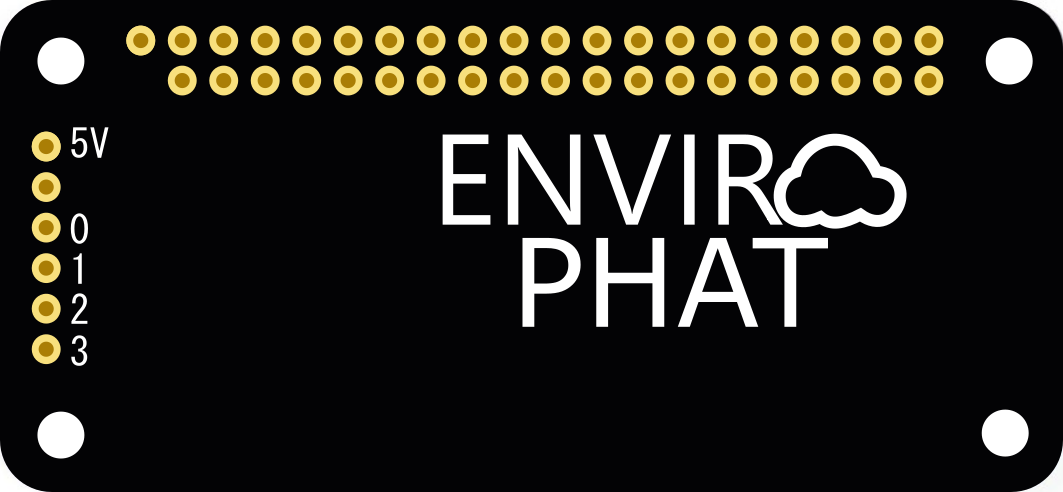
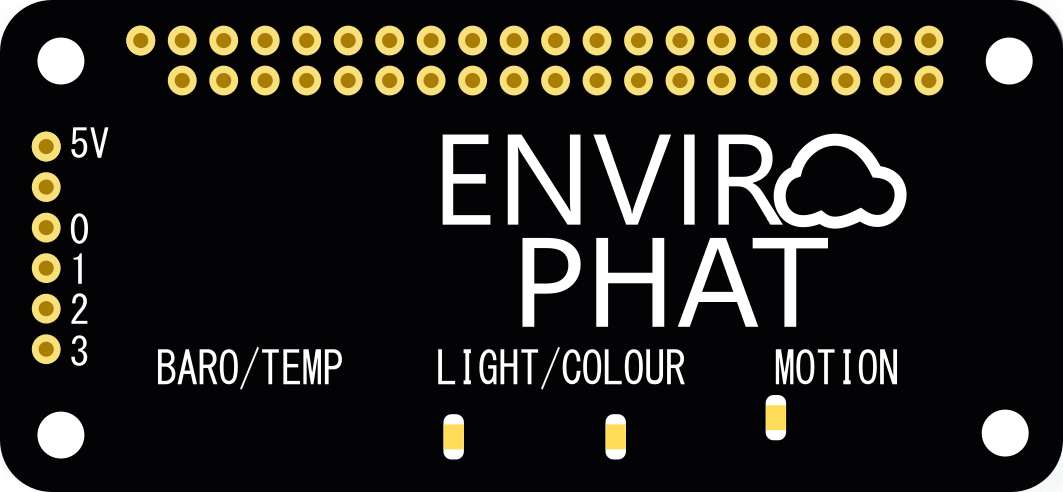
Changed to PUG (Jade v2.0.0+) and updated art

diff --git a/web/index.js b/web/index.js
@@ -1,15 +1,15 @@
 var express = require('express');
 var mysql = require('mysql');
-var jade = require('jade');
+var jade = require('pug');
 
 var app = express();
 
-app.set('view engine', 'jade');
+app.set('view engine', 'pug');
 
 app.use('/public', express.static(__dirname + '/public'));
 
 app.get('/', function (req, res) {
-	res.render('index.jade');
+	res.render('index.pug');
 });
 
 app.listen(3000, function() {
